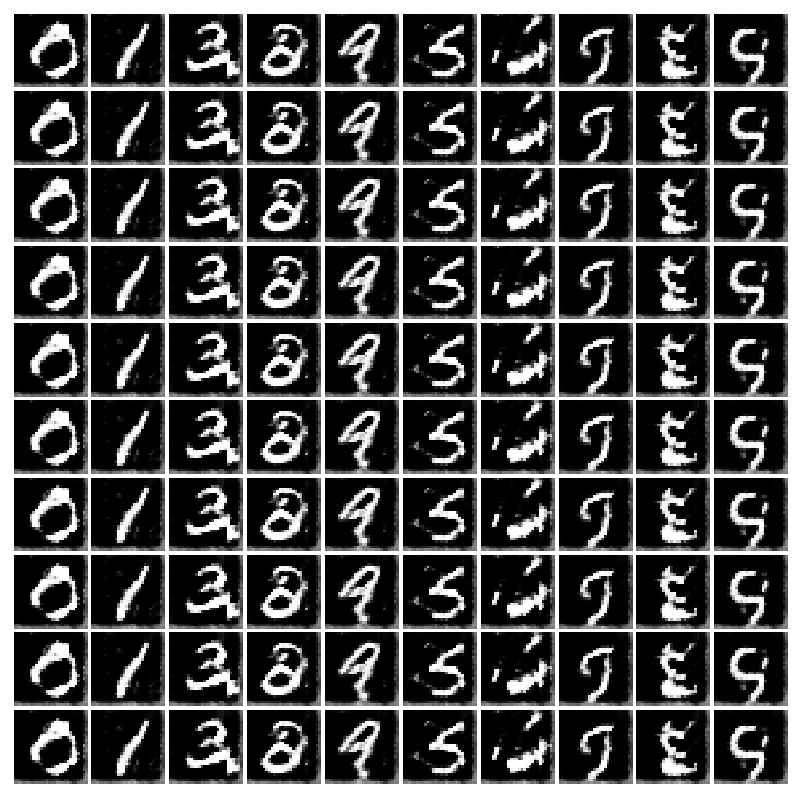
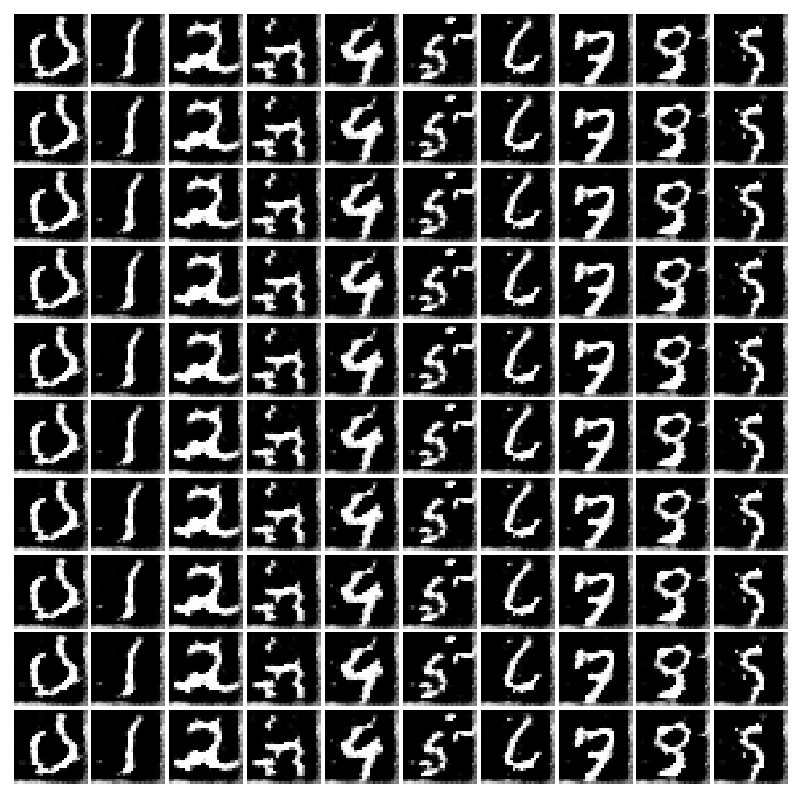
test run

Changed region(s): [[0.0, 0.0, 0.9988, 0.9937]]

diff --git a/cDCGAN.py b/cDCGAN.py
@@ -28,10 +28,10 @@ transform = transforms.Compose([
     transforms.Normalize(mean=(0.5, 0.5, 0.5), std=(0.5, 0.5, 0.5))
     ])
 
-mnist_train = torchvision.datasets.MNIST('./MNIST_data', train=True, download=True, transform=transform, shuffle=True)
-train_loader = torch.utils.data.DataLoader(mnist_train, batch_size=batch_size)
-mnist_test = torchvision.datasets.MNIST('./MNIST_data', train=False, download=True, transform=transform, shuffle=True)
-test_loader = torch.utils.data.DataLoader(mnist_test, batch_size=batch_size)
+mnist_train = torchvision.datasets.MNIST('./MNIST_data', train=True, download=True, transform=transform)
+train_loader = torch.utils.data.DataLoader(mnist_train, batch_size=batch_size, shuffle=True)
+mnist_test = torchvision.datasets.MNIST('./MNIST_data', train=False, download=True, transform=transform)
+test_loader = torch.utils.data.DataLoader(mnist_test, batch_size=batch_size, shuffle=True)
 
 class Flatten(nn.Module):
     def forward(self, input):
@@ -369,6 +369,6 @@ generator.weight_init(mean=0.0, std=0.02)
 discriminator = DiscrimanatorOrig()
 discriminator.weight_init(mean=0.0, std=0.02)
 image_loader = train_loader
-epochs = 50
+epochs = 25
 num_train_batches = -1
 train_gan(generator, discriminator, image_loader, epochs, num_train_batches=num_train_batches)
